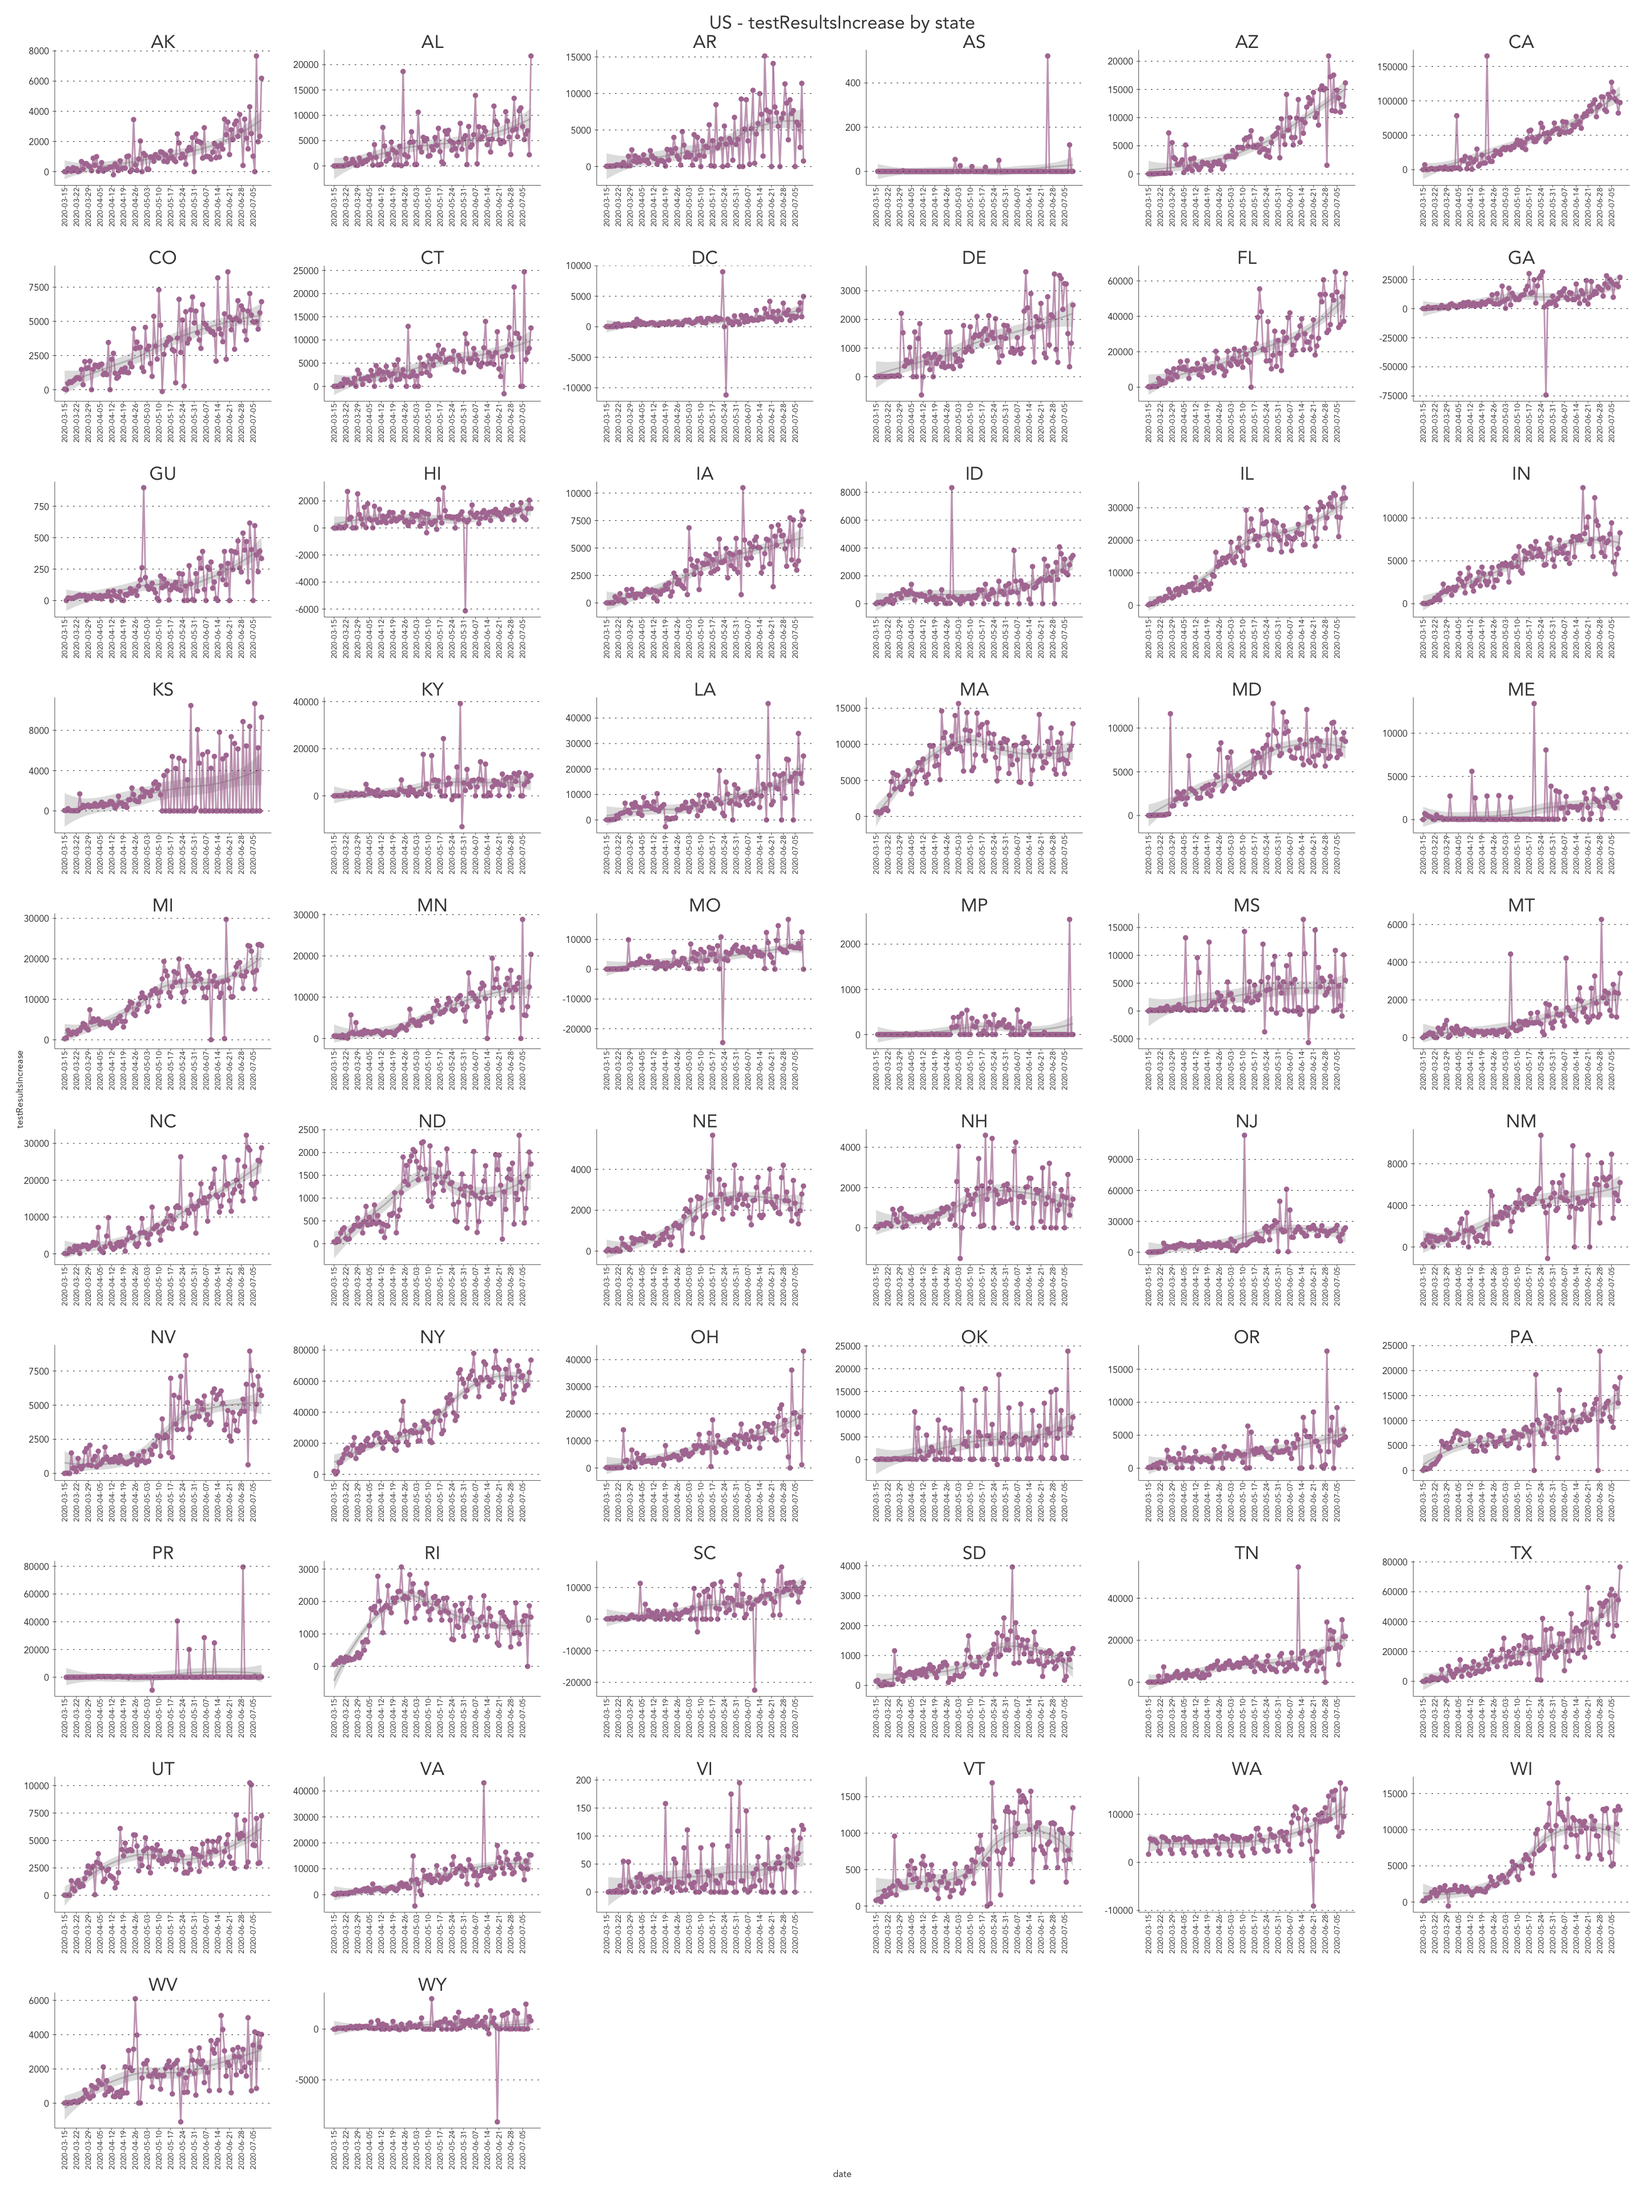
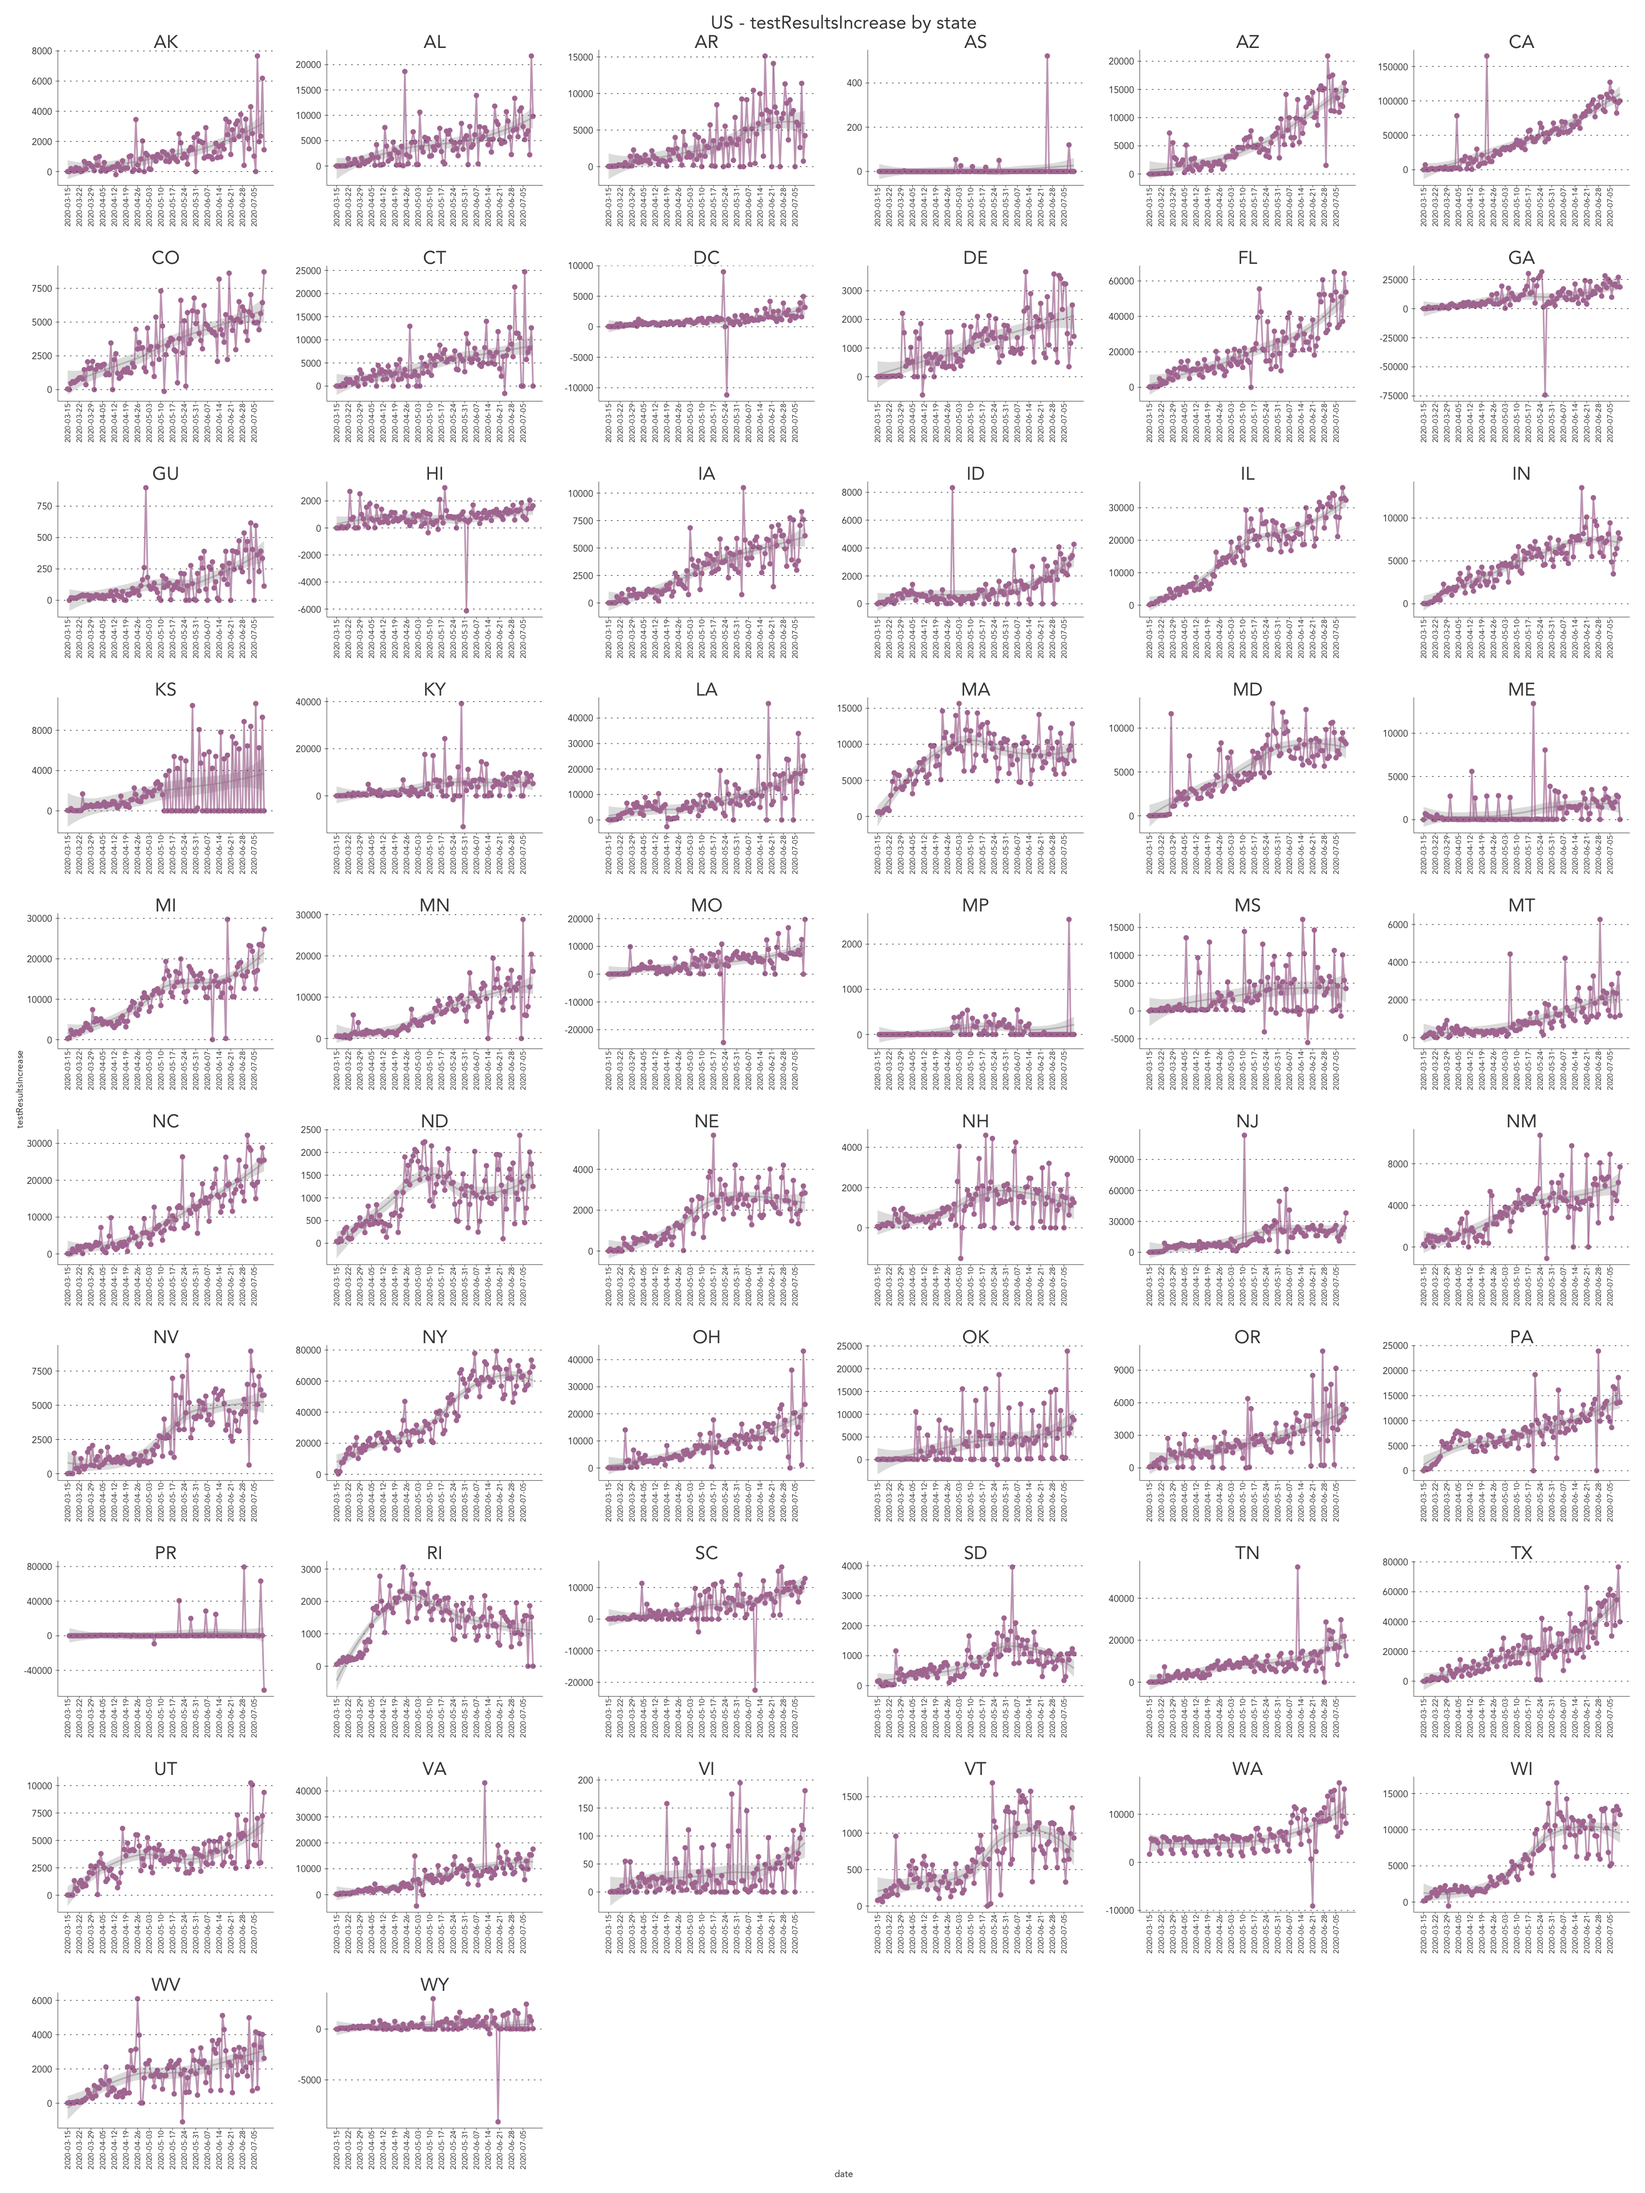
0711 up

diff --git a/covid19-vis.html b/covid19-vis.html
@@ -311,28 +311,22 @@ population
 <tbody>
 <tr>
 <td style="text-align:left;">
-2020-07-10
+2020-07-11
 </td>
 <td style="text-align:left;">
 AK
 </td>
 <td style="text-align:right;">
-1323
+1385
 </td>
 <td style="text-align:right;">
-140608
-</td>
-<td style="text-align:right;">
-0
-</td>
-<td style="text-align:right;">
-30
+141991
 </td>
 <td style="text-align:right;">
 0
 </td>
 <td style="text-align:right;">
-0
+31
 </td>
 <td style="text-align:right;">
 0
@@ -344,19 +338,25 @@ AK
 0
 </td>
 <td style="text-align:right;">
-588
+1
+</td>
+<td style="text-align:right;">
+0
+</td>
+<td style="text-align:right;">
+598
 </td>
 <td style="text-align:left;">
 A
 </td>
 <td style="text-align:left;">
-7/10/2020 00:00
+7/11/2020 00:00
 </td>
 <td style="text-align:left;">
-2020-07-10T00:00:00Z
+2020-07-11T00:00:00Z
 </td>
 <td style="text-align:left;">
-07/09 20:00
+07/10 20:00
 </td>
 <td style="text-align:right;">
 17
@@ -365,10 +365,10 @@ A
 0
 </td>
 <td style="text-align:left;">
-2020-07-10T00:00:00Z
+2020-07-11T00:00:00Z
 </td>
 <td style="text-align:right;">
-141931
+143376
 </td>
 <td style="text-align:right;">
 0
@@ -389,22 +389,22 @@ A
 2
 </td>
 <td style="text-align:right;">
-51
+62
 </td>
 <td style="text-align:right;">
-6136
+1383
 </td>
 <td style="text-align:right;">
-141931
+143376
 </td>
 <td style="text-align:right;">
-141931
+143376
 </td>
 <td style="text-align:right;">
-6187
+1445
 </td>
 <td style="text-align:right;">
-141931
+143376
 </td>
 <td style="text-align:right;">
 0
@@ -413,7 +413,7 @@ A
 0
 </td>
 <td style="text-align:left;">
-7337a3e96732733e1dad90b6631e3e4316bba0ff
+d88f70b7bfa373ef0fb14998ccb0d0d3a9c806fb
 </td>
 <td style="text-align:right;">
 0
@@ -439,37 +439,37 @@ A
 </tr>
 <tr>
 <td style="text-align:left;">
-2020-07-10
+2020-07-11
 </td>
 <td style="text-align:left;">
 AL
 </td>
 <td style="text-align:right;">
-50508
+51947
 </td>
 <td style="text-align:right;">
-441708
-</td>
-<td style="text-align:right;">
-0
-</td>
-<td style="text-align:right;">
-1183
-</td>
-<td style="text-align:right;">
-3089
+450073
 </td>
 <td style="text-align:right;">
 0
 </td>
 <td style="text-align:right;">
-888
+1068
+</td>
+<td style="text-align:right;">
+6745
 </td>
 <td style="text-align:right;">
 0
 </td>
 <td style="text-align:right;">
-493
+904
+</td>
+<td style="text-align:right;">
+0
+</td>
+<td style="text-align:right;">
+496
 </td>
 <td style="text-align:right;">
 25783
@@ -487,10 +487,10 @@ B
 07/10 07:00
 </td>
 <td style="text-align:right;">
-1104
+1114
 </td>
 <td style="text-align:right;">
-3089
+6745
 </td>
 <td style="text-align:left;">
 2020-07-10T11:00:00Z
@@ -505,43 +505,43 @@ B
 0
 </td>
 <td style="text-align:right;">
-49892
+51294
 </td>
 <td style="text-align:right;">
-1077
+1086
 </td>
 <td style="text-align:right;">
-27
+28
 </td>
 <td style="text-align:right;">
 1
 </td>
 <td style="text-align:right;">
-1334
+1439
 </td>
 <td style="text-align:right;">
-20378
+8365
 </td>
 <td style="text-align:right;">
-492216
+502020
 </td>
 <td style="text-align:right;">
-492216
+502020
 </td>
 <td style="text-align:right;">
-21712
+9804
 </td>
 <td style="text-align:right;">
-492216
+502020
 </td>
 <td style="text-align:right;">
-36
+10
 </td>
 <td style="text-align:right;">
-50
+3656
 </td>
 <td style="text-align:left;">
-9e12c62a712d9f83add02bd471d6608745a2c76a
+d4bd3a01be0c8af28a542861a4de75cf38649a10
 </td>
 <td style="text-align:right;">
 0
@@ -567,7 +567,7 @@ B
 </tr>
 <tr>
 <td style="text-align:left;">
-2020-07-10
+2020-07-11
 </td>
 <td style="text-align:left;">
 AR
@@ -576,7 +576,7 @@ AR
 26803
 </td>
 <td style="text-align:right;">
-338609
+342846
 </td>
 <td style="text-align:right;">
 0
@@ -585,7 +585,7 @@ AR
 402
 </td>
 <td style="text-align:right;">
-1743
+1780
 </td>
 <td style="text-align:right;">
 0
@@ -597,7 +597,7 @@ AR
 84
 </td>
 <td style="text-align:right;">
-260
+265
 </td>
 <td style="text-align:right;">
 20642
@@ -606,25 +606,25 @@ AR
 A
 </td>
 <td style="text-align:left;">
-7/10/2020 14:46
+7/10/2020 19:46
 </td>
 <td style="text-align:left;">
-2020-07-10T14:46:00Z
+2020-07-10T19:46:00Z
 </td>
 <td style="text-align:left;">
-07/10 10:46
+07/10 15:46
 </td>
 <td style="text-align:right;">
 313
 </td>
 <td style="text-align:right;">
-1743
+1780
 </td>
 <td style="text-align:left;">
-2020-07-10T14:46:00Z
+2020-07-10T19:46:00Z
 </td>
 <td style="text-align:right;">
-364661
+369649
 </td>
 <td style="text-align:right;">
 0
@@ -645,31 +645,31 @@ A
 5
 </td>
 <td style="text-align:right;">
-751
+0
+</td>
+<td style="text-align:right;">
+4237
+</td>
+<td style="text-align:right;">
+369649
+</td>
+<td style="text-align:right;">
+369649
+</td>
+<td style="text-align:right;">
+4237
+</td>
+<td style="text-align:right;">
+369649
 </td>
 <td style="text-align:right;">
 0
 </td>
 <td style="text-align:right;">
-365412
-</td>
-<td style="text-align:right;">
-365412
-</td>
-<td style="text-align:right;">
-751
-</td>
-<td style="text-align:right;">
-365412
-</td>
-<td style="text-align:right;">
-4
-</td>
-<td style="text-align:right;">
-38
+37
 </td>
 <td style="text-align:left;">
-3ebd2a7aee71250e30472d87c0a43986dfcd32aa
+cf7bc086392c6c7082486593d6b67d8274da8321
 </td>
 <td style="text-align:right;">
 0
